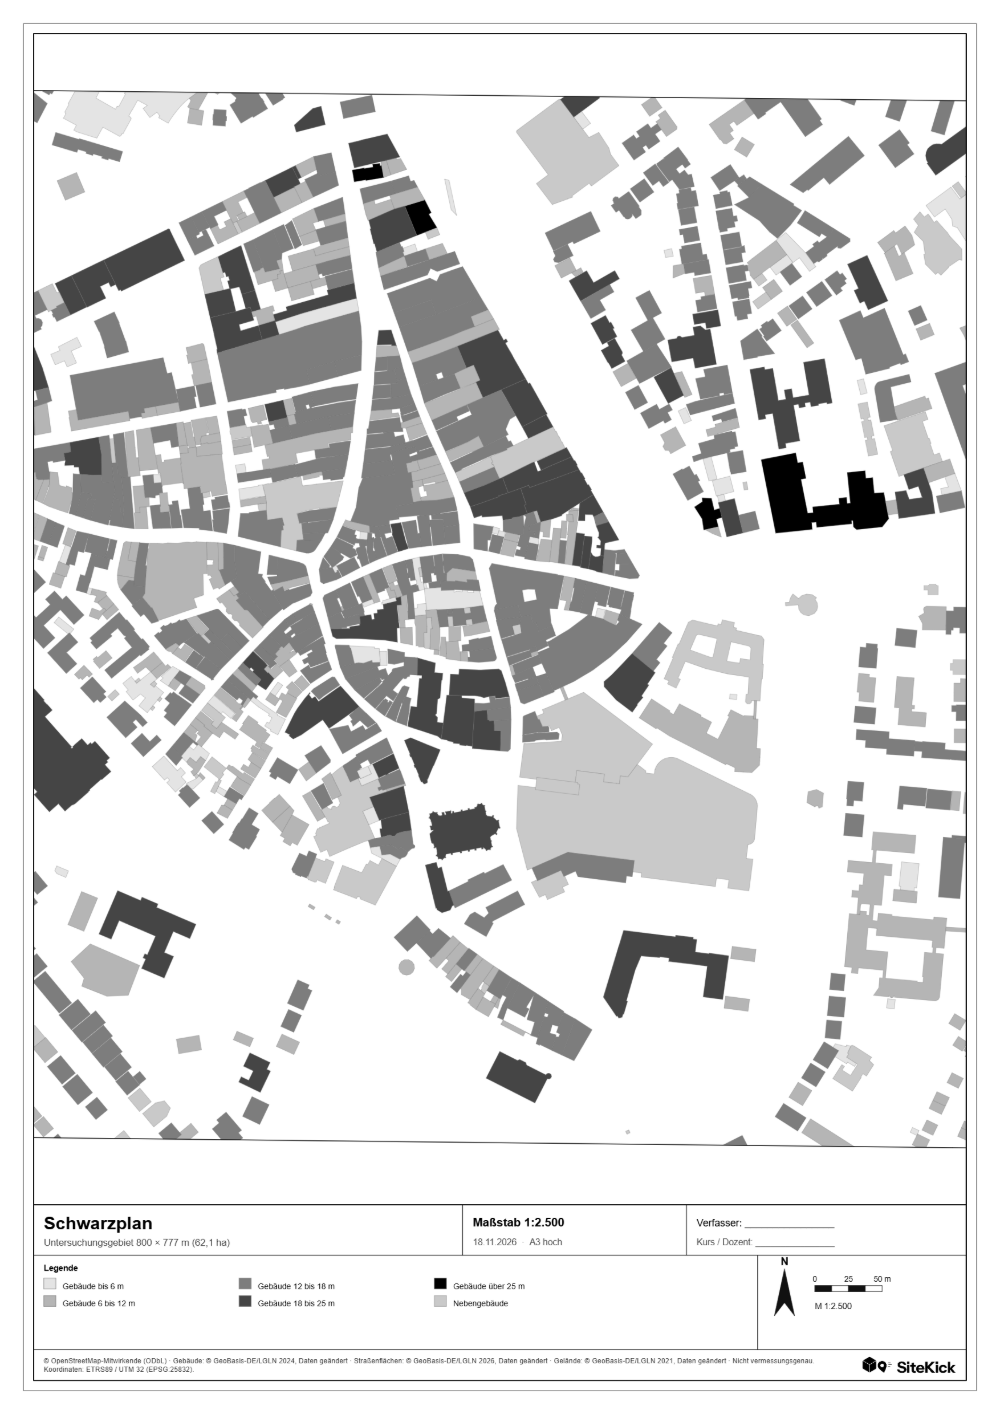
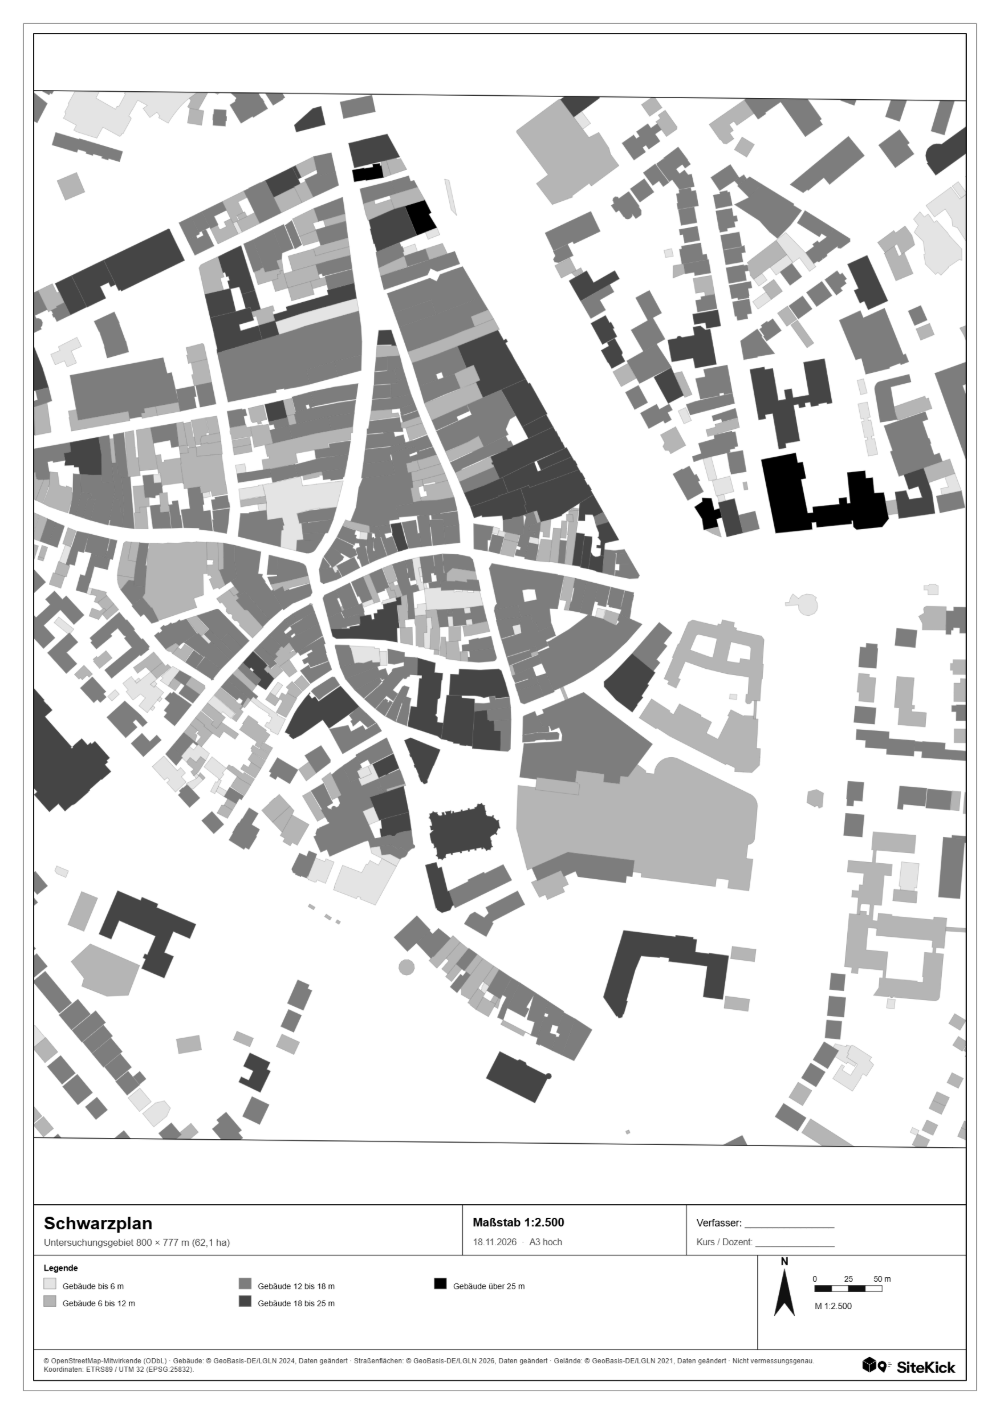
Reiterleiste bricht um, Schwarzplan ohne graue Nebengebäude
- Reiterleiste umbricht in mehrere Zeilen statt seitlich zu scrollen und ist kompakter,
  damit auf jedem Bildschirm alle Reiter erreichbar sind
- Schwarzplan: Nebengebäude schwarz wie alle Gebäude (Karte, Export, Legende, Nach Höhe),
  im DXF bleibt der Layer NEBENGEBAEUDE getrennt
- README, CLAUDE.md, PLAN.md und zwei Bilder angepasst

diff --git a/export.js b/export.js
@@ -364,7 +364,7 @@ function expSzene(ansicht) {
   if (hat("gebaeude")) {
     const nachHoehe = ansicht === "schwarzplan" && schwarzModus === "hoehe";
     flaechen(gebaeudeSatz(), (f) => (f.properties.kat === "nebengebaeude" ? "NEBENGEBAEUDE" : nachHoehe ? "GEBAEUDE_H_" + hoehenKlasse(gebaeudeHoehe(f.properties)).kurz : "GEBAEUDE"),
-      (f) => ({ fill: f.properties.kat === "nebengebaeude" ? (nachHoehe ? "#c9c9c9" : e.neben || FARBE.nebengebaeude) : nachHoehe ? hoehenKlasse(gebaeudeHoehe(f.properties)).farbe : e.gebaeude || FARBE.gebaeudeSchwarzplan, ...(nachHoehe ? { stroke: "#6a6a6a", sw: 0.06 } : {}) }));
+      (f) => ({ fill: f.properties.kat === "nebengebaeude" && ansicht !== "schwarzplan" ? e.neben || FARBE.nebengebaeude : nachHoehe ? hoehenKlasse(gebaeudeHoehe(f.properties)).farbe : e.gebaeude || FARBE.gebaeudeSchwarzplan, ...(nachHoehe ? { stroke: "#6a6a6a", sw: 0.06 } : {}) }));
   }
   if (hat("umriss")) flaechen(gebaeudeSatz(), "GEBAEUDE_UMRISS", { stroke: FARBE.umriss, sw: haarlinie });
   if (hat("dach") && lod2Vorhanden) {
@@ -451,8 +451,8 @@ function expLegende(ansicht) {
   const a = ANSICHTEN[ansicht];
   switch (ansicht) {
     case "schwarzplan":
-      if (schwarzModus === "hoehe") { for (const k of HOEHEN_KLASSEN) fl(k.farbe, "#666", `Gebäude ${k.name}`); fl("#c9c9c9", null, "Nebengebäude"); }
-      else { fl(FARBE.gebaeudeSchwarzplan, null, "Gebäude"); fl(FARBE.nebengebaeude, null, "Nebengebäude, Überdachung"); }
+      if (schwarzModus === "hoehe") { for (const k of HOEHEN_KLASSEN) fl(k.farbe, "#666", `Gebäude ${k.name}`); }
+      else { fl(FARBE.gebaeudeSchwarzplan, null, "Gebäude"); }
       break;
     case "strassen":
       if (alkisVorhanden) { fl(FARBE.netz.fahrbahn, null, "Straßenraum (Fahrbahn)"); fl(FARBE.netz.weg, FARBE.netz.kante, "Wege und Gehwege"); fl(FARBE.netz.platz, FARBE.netz.kante, "Plätze, Fußgängerzonen"); }

diff --git a/style.css b/style.css
@@ -281,34 +281,33 @@ input[type="number"]:focus, input[type="text"]:focus, input[type="date"]:focus, 
 /* ---------- Reiter (Tabs) für die Ansichten: Text, aktiver Reiter mit Strich ---------- */
 .tabs {
   display: flex;
+  flex-wrap: wrap;                 /* passt sich der Fensterbreite an: reicht eine Zeile nicht, umbrechen die Reiter, damit immer alle erreichbar sind */
   gap: 0;
   padding: 0 12px;
   background: var(--paper);
   border-bottom: 1px solid var(--line);
-  overflow-x: auto;
   flex-shrink: 0;
-  scrollbar-width: none;
   z-index: 5;
 }
-.tabs::-webkit-scrollbar { display: none; }
 .tab {
   font: inherit;
-  font-size: 10.5px;
+  font-size: 10px;
   font-weight: 700;
   text-transform: uppercase;
-  letter-spacing: 0.08em;
+  letter-spacing: 0.04em;
   background: none;
   border: none;
   border-radius: 0;
-  padding: 16px 12px 13px;
+  padding: 14px 8px 12px;
   cursor: pointer;
   color: var(--ink-soft);
   white-space: nowrap;
   position: relative;
   transition: color var(--t-fast) linear;
 }
-.tab-trenner { margin-right: 14px; }       /* Ende einer Gruppe von Reitern */
-.tab-trenner::after { content: ""; position: absolute; right: -8px; top: 30%; bottom: 30%; width: 1px; background: var(--ink-soft); opacity: 0.5; }
+.tab-trenner { margin-right: 10px; }       /* Ende einer Gruppe von Reitern */
+.tab-trenner::after { content: ""; position: absolute; right: -6px; top: 30%; bottom: 30%; width: 1px; background: var(--ink-soft); opacity: 0.5; }
+@media (max-width: 1500px) { .tab { padding: 12px 7px 10px; } }
 .tab:hover { color: var(--ink); }
 .tab.is-active { color: var(--ink); box-shadow: inset 0 -4px 0 var(--accent); }
 

diff --git a/app.js b/app.js
@@ -216,9 +216,6 @@ function zeigeAnsicht(ziel) {
     zeichenmodus(false);
   }
   document.querySelectorAll(".tab").forEach((t) => t.classList.toggle("is-active", t.dataset.view === ziel));
-  // Reiterleiste scrollt so, dass der gewählte Reiter sichtbar bleibt (nur seitlich, die Seite springt nicht)
-  const aktiverReiter = document.querySelector(".tab.is-active");
-  if (aktiverReiter) aktiverReiter.scrollIntoView({ inline: "nearest", block: "nearest", behavior: "smooth" });
   document.querySelectorAll(".view").forEach((v) =>
     v.classList.toggle("is-active", v.dataset.view === (istKarte ? "karte" : ziel)));
   if (istKarte) {
@@ -449,8 +446,8 @@ const EBENEN = {
 // Was zeigt welcher Reiter?
 const ANSICHTEN = {
   karte:       { basiskarte: true,  ebenen: [] },
-  schwarzplan: { basiskarte: false, ebenen: ["gebaeude"], gebaeude: FARBE.gebaeudeSchwarzplan,
-                 text: "Schwarzplan: Gebäude schwarz, Nebengebäude grau." },
+  schwarzplan: { basiskarte: false, ebenen: ["gebaeude"], gebaeude: FARBE.gebaeudeSchwarzplan, neben: FARBE.gebaeudeSchwarzplan,
+                 text: "Schwarzplan: alle Gebäude schwarz." },
   strassen:    { basiskarte: false, ebenen: ["kontext", "strassen", "alkis"], strasse: FARBE.strasseSchwarz,
                  alkis: { strasse: FARBE.netz.fahrbahn, weg: FARBE.netz.weg, platz: FARBE.netz.platz, kante: FARBE.netz.kante },
                  text: "Straßennetz: Linienstärke nach Straßenart." },

diff --git a/legende.js b/legende.js
@@ -36,7 +36,6 @@ function farbschluessel(ansicht) {
     case "schwarzplan":
       if (schwarzModus === "hoehe") e.push(hoehenLegendeEintraege()); else
       e.push(eintrag(farbfeld(FARBE.gebaeudeSchwarzplan), "Gebäude"));
-      e.push(eintrag(farbfeld(FARBE.nebengebaeude), "Nebengebäude, Überdachung"));
       break;
     case "strassen":
       if (alkisVorhanden) {
@@ -133,7 +132,7 @@ function eckdaten(ansicht) {
   const A = k.flaeche;
   if (ansicht === "schwarzplan" && k.hatOsm) {
     zeilen.push(["Gebäude", zahl(k.anzahlHaupt)], ["Bebaute Fläche", fm2(k.grundflaeche)], ["Bebauungsanteil", prozent(k.grundflaeche / A)]);
-    if (k.anzahlNeben) zeilen.push(["Nebengebäude", zahl(k.anzahlNeben)]);
+    if (k.anzahlNeben) zeilen.push(["Nebengebäude (ebenfalls schwarz)", zahl(k.anzahlNeben)]);
   } else if (ansicht === "strassen") {
     if (k.verkehrFlaeche != null) zeilen.push(["Verkehrsfläche", `${fm2(k.verkehrFlaeche)} · ${prozent(k.verkehrFlaeche / A)}`]);
     if (k.alkisTeile) zeilen.push(["Fahrbahn", fm2(k.alkisTeile.strasse)], ["Wege", fm2(k.alkisTeile.weg)], ["Plätze", fm2(k.alkisTeile.platz)]);

diff --git a/hoehe.js b/hoehe.js
@@ -47,8 +47,8 @@ function aktualisiereHoehe() {
   if (schwarzModus !== "hoehe") return;
   setzeHoehenEigenschaft();
   const stufen = HOEHEN_KLASSEN.slice(1).flatMap((k, i) => [HOEHEN_KLASSEN[i].bis, k.farbe]);
-  map.setPaintProperty("gebaeude-flaeche", "fill-color", ["case", ["==", ["get", "kat"], "nebengebaeude"], "#c9c9c9",
-    ["step", ["coalesce", ["get", "hh"], 0], HOEHEN_KLASSEN[0].farbe, ...stufen]]);
+  map.setPaintProperty("gebaeude-flaeche", "fill-color",
+    ["step", ["coalesce", ["get", "hh"], 0], HOEHEN_KLASSEN[0].farbe, ...stufen]);   // alle Gebäude nach Höhe, Nebengebäude nicht gesondert grau
   map.setPaintProperty("gebaeude-flaeche", "fill-outline-color", "#6a6a6a");
 }
 

diff --git a/PLAN.md b/PLAN.md
@@ -914,6 +914,7 @@ Rhythmus pro Feature: **neue Sitzung → ein Feature bauen → testen und speich
 - [x] **Startfenster mit KI-Disclaimer** (`hinweis.js`, `<dialog id="hinweis-dialog">`, Stil `.hinweis-dialog` in `style.css`): erscheint einmal je Browser-Sitzung (sessionStorage `sitekick-hinweis`), schließt mit Knopf, Esc oder Klick daneben. Inhalt: SiteKick-Logo, Hinweis auf KI-Bau (Claude Code), Überschlags-Hinweis, darunter aus Spaß „Powered by“ mit dem Logo der fiktiven „Simon Ubben Bau GmbH“ (`logo/spass/simon-ubben-bau-gmbh.jpg`) und dem ausdrücklichen Hinweis, dass es keine echte Firma ist. Hell und Dunkel getestet (im Dunkelmodus wird das schwarze Logo invertiert).
 - [x] **Oberfläche im Swiss Style** (18.11.2026, Wunsch der Tutor*innen „slay but make it pretty“, direkt ersetzt statt Branch): `style.css` komplett neu. Montserrat (selbst gehostet, `fonts/`, OFL), plakativ nach einer Referenz der Studierenden: riesige Überschriften in Versalien (Gewicht 900), rote gesperrte Versal-Beschriftungen, Reiter in Versalien, keine Schatten und kein Glas, 2-px-Linien über Abschnitten, Reiter als Text mit orangem Strich, Knöpfe als Rahmen (Hover schwarz, Drücken orange), quadratische Auswahlfelder statt Schalter, Zahlen mit tabellarischen Ziffern, Großbuchstaben nur für kleine Beschriftungen. Eine Signalfarbe (Logo-Orange). Dunkelmodus Weiß auf Schwarz. Start- und Export-Fenster ohne Rundung und Federn (nur Überblenden). **Getestet:** Hell und Dunkel, Startfenster, Karte/Lageplan, Sonne, Schnitt, Kennzahlen, Sammel-Export. **Nicht getestet:** Handy-Ansicht, Wirtschaftlichkeits-Panel und Export-Fenster im neuen Stil im Dunkelmodus. Die frühere Apple-Variante steht im Git-Verlauf (Commit a0280ac).
 - [x] **Rot, größeres Logo, Startfenster überarbeitet** (18.11.2026): Akzentfarbe jetzt reines Rot `#FF0000` (dunkel `#FF2A2A`) wie in der Referenz, auch auf der Karte (Gebietsrahmen, Auswahl, Kreise, Schnittlinie). Das Logo wurde in diesem Rot neu eingefärbt (SVG, Favicon, Handy-Symbole, PNG-Varianten; das Original-Paket liegt unverändert als ZIP im Hauptordner). Logo in der Seitenleiste auf die volle Breite (max. 292 px). Startfenster zentriert (Logo, Überschrift, Texte, „Powered by“, Spaß-Logo, Knopf auf einer Mittelachse), kompakter. Alle Screenshots neu.
+- [x] **Reiterleiste und Schwarzplan angepasst** (18.11.2026, Rückmeldung der Nutzerin/des Nutzers): Die Reiterleiste bricht in mehrere Zeilen um (`flex-wrap`), statt seitlich zu scrollen, und ist kompakter (10 px, bei 1920 px eine Zeile, bei 1366 px zwei, bei 1024 px drei); getestet bei 736, 1024, 1100, 1366 und 1920 px Breite: alle Reiter sichtbar. Im Schwarzplan sind Nebengebäude nicht mehr grau, sondern schwarz wie alle Gebäude (auch in „Nach Höhe“, Legende und Export; im DXF bleibt der Layer `NEBENGEBAEUDE` getrennt). Lageplan, Schnitt und Sonne unverändert.
 - [ ] **Noch offen:** Poster, Test der DXF-Dateien in Allplan/ArchiCAD (macht die Nutzerin / der Nutzer), Abstimmung der zwei Versionen (`entwicklung`).
 - [ ] Hinweis: Die Hintergrundkarte kommt von den OSM-Kartenservern (tile.openstreetmap.org). Für ein
   Studienprojekt ist das in Ordnung. Bei vielen Nutzern müsste man einen anderen Kartendienst nehmen.

diff --git a/README.md b/README.md
@@ -108,7 +108,7 @@ Die Dachformen (LoD2), das Gelände, Luftbilder, Flurstücke und Bodenrichtwerte
 
 ## Die Reiter im Einzelnen
 
-Die Reiter sind nach Arbeitsablauf geordnet: **Orientierung → Pläne und Sonne → Grundstück und Markt → Darstellung → Zahlen.**
+Die Reiter sind nach Arbeitsablauf geordnet: **Orientierung → Pläne und Sonne → Grundstück und Markt → Darstellung → Zahlen.** Die Reiterleiste **passt sich der Fensterbreite an**: reicht eine Zeile nicht, umbrechen die Reiter in weitere Zeilen, damit auf jedem Bildschirm alle erreichbar sind.
 
 ### 1. Orientierung
 
@@ -127,7 +127,7 @@ Gesundheit, Essen/Kultur/Freizeit, Öffentliche Einrichtungen. Ein Klick auf ein
 
 ### 2. Pläne und Sonne
 
-**Schwarzplan** – Gebäude schwarz auf weiß (Figur-Grund), Nebengebäude getrennt in Grau. Der Schalter **„Nach Höhe“** färbt die Gebäude in fünf Grautönen nach Höhe
+**Schwarzplan** – alle Gebäude schwarz auf weiß (Figur-Grund), auch Nebengebäude wie Garagen und Schuppen. Der Schalter **„Nach Höhe“** färbt die Gebäude in fünf Grautönen nach Höhe
 (bis 6, 12, 18 und 25 m, darüber). Die Höhe stammt aus LoD2, sonst aus OpenStreetMap (Höhe oder Geschosse mal 3 m), sonst ist sie angenommen.
 
 ![Schwarzplan](docs/bilder/schwarzplan.jpg)

diff --git a/CLAUDE.md b/CLAUDE.md
@@ -75,7 +75,7 @@ bekommen. Details und aktueller Stand: siehe PLAN.md.
 
 # Fachliche Festlegungen
 - Kennzahlen GRZ/GFZ des Quartiers immer brutto (Gebiet) UND netto (ohne Straße, Bahn, Grün, Wasser).
-- Nebengebäude/Überdachungen (ALKIS 51009_…) = eigene Kategorie: grau, getrennt gezählt, ausblendbar.
+- Nebengebäude/Überdachungen (ALKIS 51009_…) = eigene Kategorie, getrennt gezählt. Im Lageplan grau; im Schwarzplan (auch „Nach Höhe“) wie alle Gebäude, nicht grau (Nutzerwunsch 18.11.2026: die Grau-Abstufung passte meist nicht).
 - Bild-Export maßstäblich (1:1000/2000/5000, A4–A0, 300 dpi).
 - Beispiel Oldenburg (Knopf „Beispiel Oldenburg laden“, `projekt.js`): setzt das Testgebiet Oldenburg Innenstadt (800 × 777 m) und startet „Analysieren“ mit Live-Daten (keine fest eingebauten Daten), Quellenangaben wie sonst.
 
